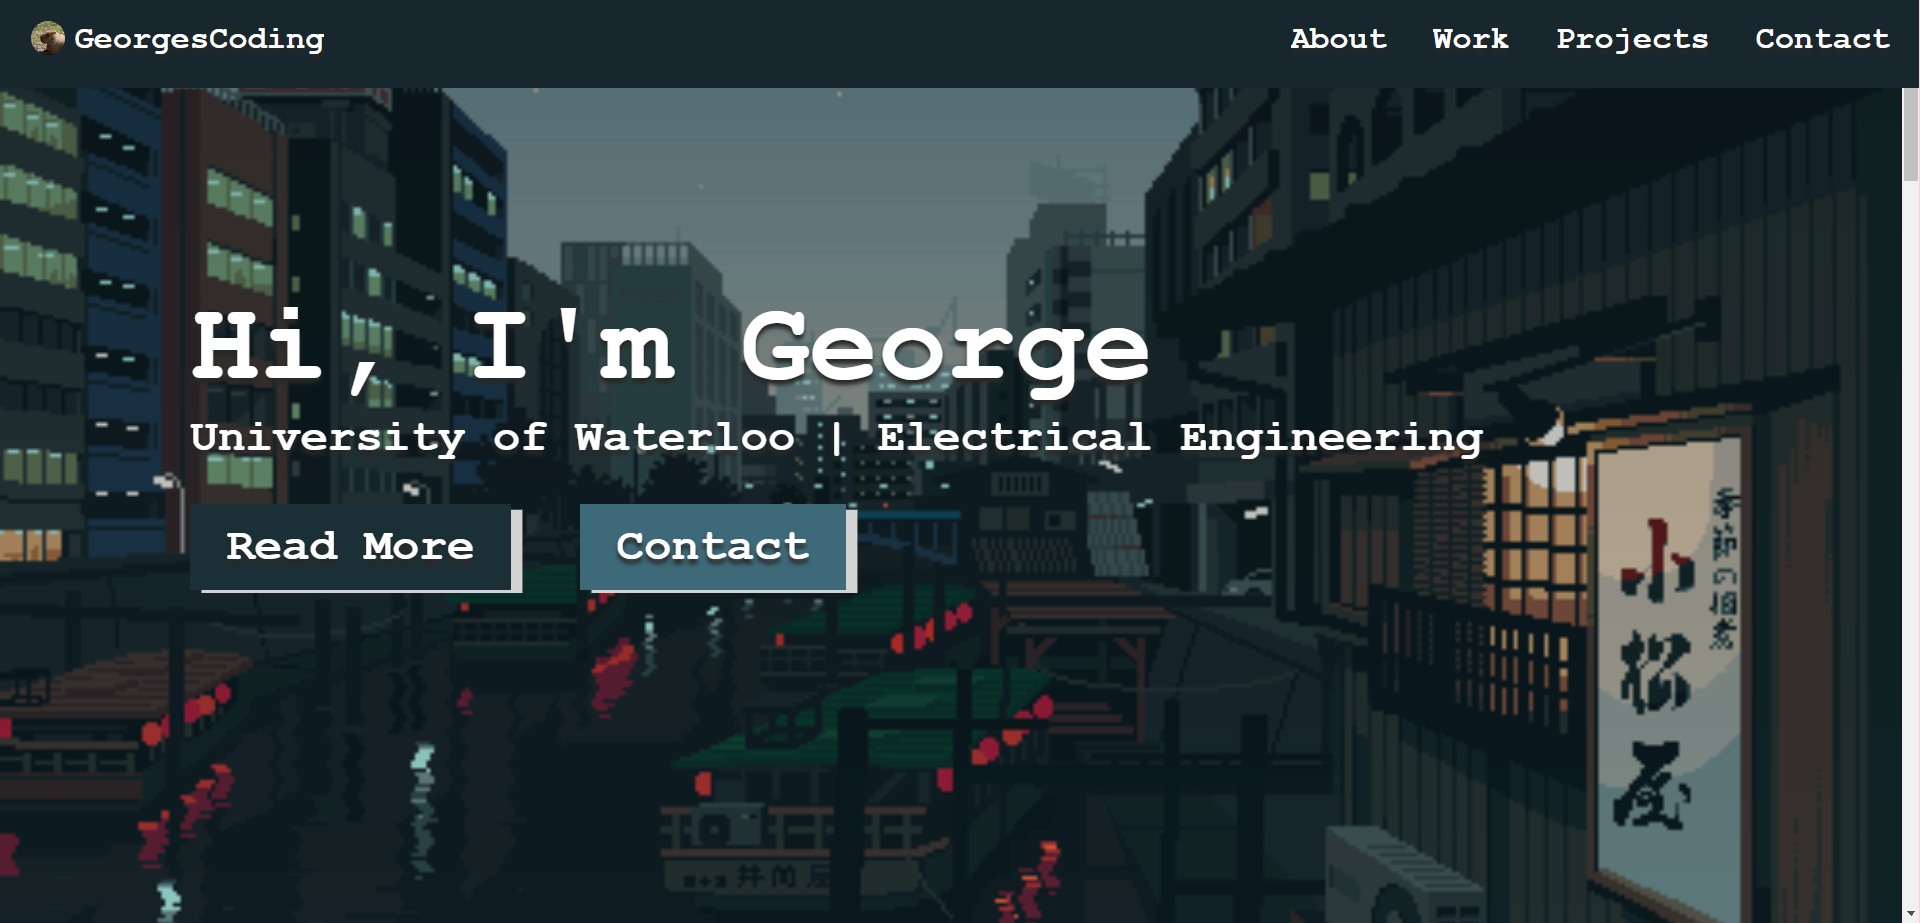
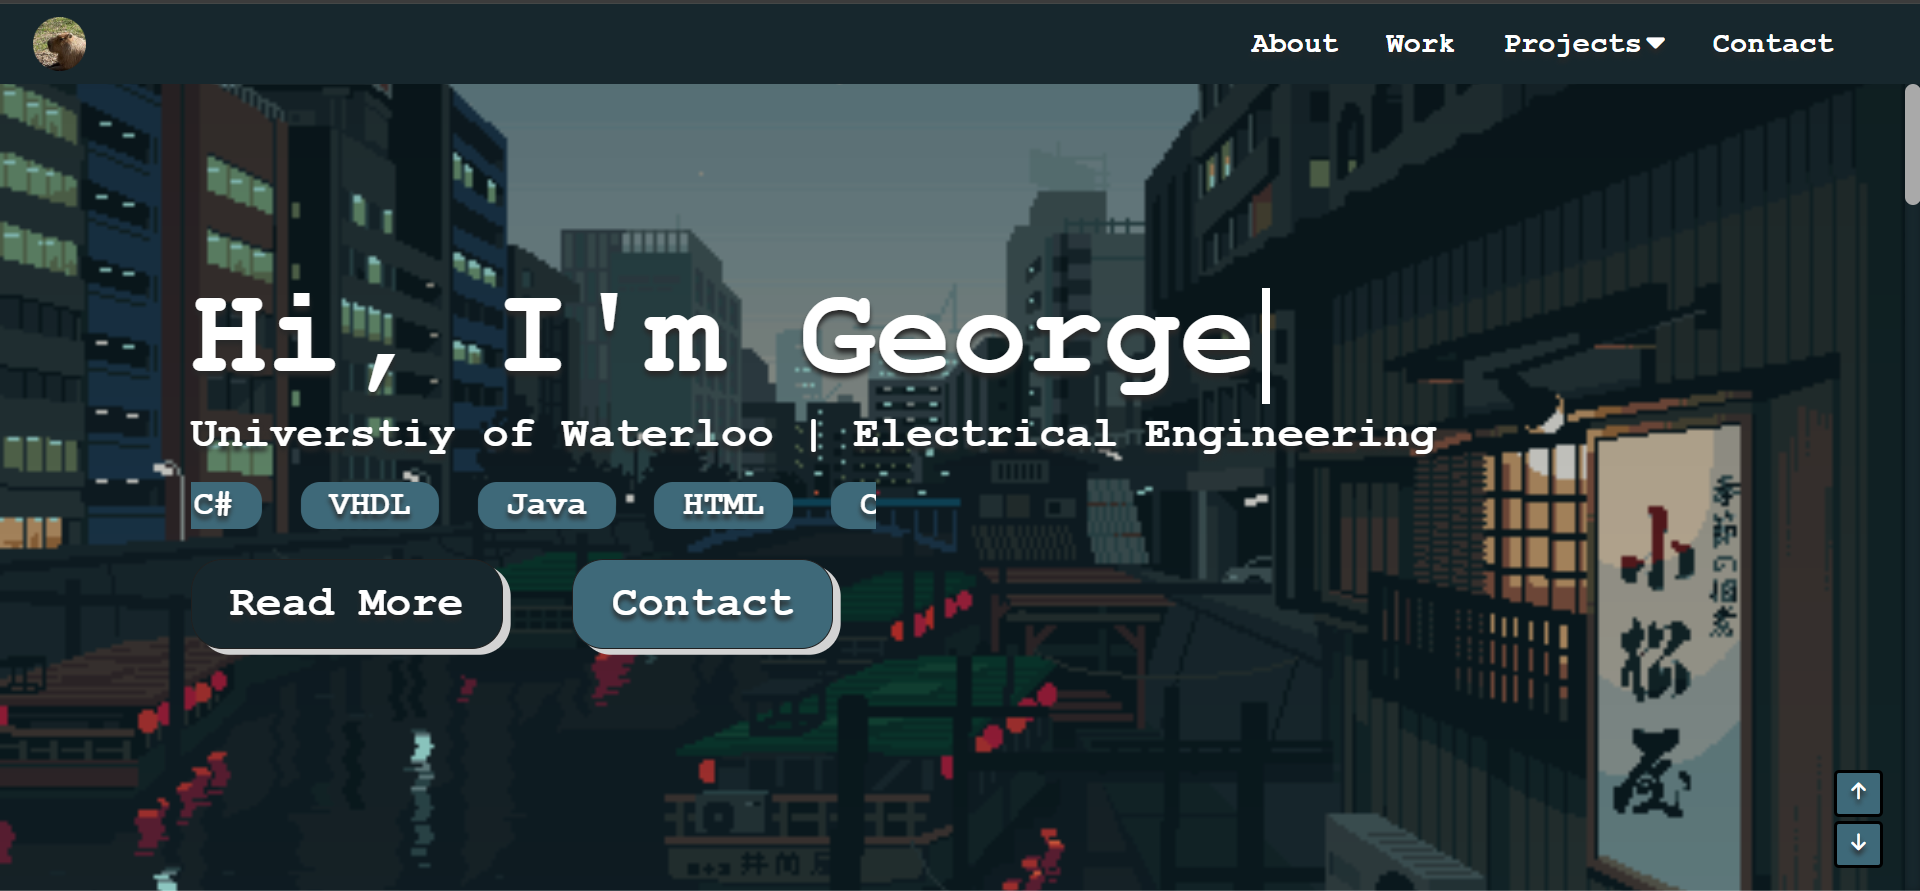
made loading main page faster
thought of making a loader, but my website is very lightweight so there isn't really any need for it. I just made loading the caret mroe dynamic so it doesn't load when adjusting the welcome page height to fit in the middle

diff --git a/src/modules/load-data.js b/src/modules/load-data.js
@@ -19,6 +19,8 @@ var currentSection;
 // loads contents of the home page, adds event listeners and rescales recaptcha 
 export function home() {
 
+    setHeight();
+
     // paste text from JSON
     document.getElementById("overviewText").innerHTML = homePage.overview;
     document.getElementById("workText").innerHTML = homePage.plangroup;
@@ -27,7 +29,6 @@ export function home() {
 
     // styles home page elements, unhides page
     styleHome();
-    document.querySelector(".page").classList.remove("hide")
 
     let resizeSocials = new ResizeObserver(() => {
         scaleSocials();
@@ -107,8 +108,7 @@ function styleHome() {
         vw = viewport.width;
 
     // changable parameters
-    let unit,
-        landscape;
+    let unit;
 
     // navbar elements
     let rightnav = document.querySelector(".right-nav"),
@@ -150,7 +150,6 @@ function styleHome() {
 
     // landscape mode
     if (vw >= vh * 1.5) {
-        landscape = true;
 
         // remove font size
         overviewText.style.fontSize = "";
@@ -172,8 +171,6 @@ function styleHome() {
 
     // portrait mode
     else {
-        landscape = false;
-
         // collapse navbar options into single menu
         rightnav.classList.add("collapsed")
         collapsedNav.classList.add("collapsed")
@@ -209,8 +206,6 @@ function styleHome() {
         workDate.forEach((date) => { date.style.fontSize = "2.5" + unit; });
         sectionName.forEach((section) => { section.style.fontSize = "4.6" + unit })
     }
-
-    setHeight(landscape);
 }
 
 
@@ -294,13 +289,16 @@ function handleIntersect(entries) {
 
 
 // make each section fit exactly the entire pages
-function setHeight(landscape) {
+function setHeight() {
+
     let navbar = document.getElementById("navbar"),
         centerVertical = document.querySelectorAll(".centerVertical"),
         sections = document.querySelectorAll(".section");
 
     let navbarHeight = navbar.getBoundingClientRect().height,
-        vh = Math.max(document.documentElement.getBoundingClientRect().height || 0, window.innerHeight || 0),
+        viewport = document.documentElement.getBoundingClientRect(),
+        vh = viewport.height - navbarHeight,
+        vw = viewport.width,
         sectionHeight = vh - navbarHeight,
         sectionHeightCSS = sectionHeight.toString() + "px",
         welcomeHeight = centerVertical[0].getBoundingClientRect().height,
@@ -308,14 +306,16 @@ function setHeight(landscape) {
         workHeight = centerVertical[2].getBoundingClientRect().height;
 
     let overview = document.getElementById("overview"),
+        typing = document.getElementById("typing"),
         styles = window.getComputedStyle(overview),
         padding = styles.getPropertyValue('padding-top').toString().replace("px", "");
 
     centerVertical.forEach((section) => section.style.top = "0px")
     centerVertical.forEach((section) => section.style.paddingTop = "")
     centerVertical[0].style.top = ((sectionHeight - welcomeHeight) / 2).toString() + "px";
+    typing.classList.add("show");
 
-    if (landscape) {
+    if (vw >= vh * 1.5) {
         centerVertical[1].style.paddingTop = ((sectionHeight - overviewHeight - padding * 3) / 2).toString() + "px";
         centerVertical[2].style.paddingTop = ((sectionHeight - workHeight - padding * 3) / 2).toString() + "px";
     }
@@ -324,7 +324,6 @@ function setHeight(landscape) {
     sections.splice(3, 2)
     sections.forEach((section) => { section.style.height = sectionHeightCSS })
 }
-
 
 function revealSection(currentSection) {
     let sections = document.querySelectorAll(".section");

diff --git a/main.js b/main.js
@@ -1,6 +1,5 @@
 // remove trailing slash from url
 window.history.pushState('', '', location.pathname.slice(0, -1));
-window.scrollTo(0, 1)
 
 ///////////////////////////////////////////////////////////////////////
 ///// dynamically load modules depending on the current directory /////
@@ -9,15 +8,13 @@ window.scrollTo(0, 1)
 // root directory
 if (window.location.pathname == "/") {
     import("./src/modules/load-data.js").then((load) => {
-        load.copyright();
         load.home();
+        load.copyright();
         load.summary(true);
         load.showNav();
         load.scrollers(1);
-        window.addEventListener("load", () => {
-            load.navbar();
-            load.observer();
-        }, false);
+        load.navbar();
+        load.observer();
         window.addEventListener("resize", () => {
             load.observer();
             load.navbar();

diff --git a/index.html b/index.html
@@ -53,12 +53,13 @@
     </h1>
 </noscript>
 
+<noscript><iframe src="https://www.googletagmanager.com/ns.html?id=GTM-T5W56PW3" height="0" width="0" style="display:none;visibility:hidden"></iframe></noscript>
+
 <body id="main">
 
-    <noscript><iframe src="https://www.googletagmanager.com/ns.html?id=GTM-T5W56PW3" height="0" width="0" style="display:none;visibility:hidden"></iframe></noscript>
+    <div class="fixed-background loading"><!-- <span id="loading"></span><p>Loading website, please be patient!</p> --></div>
 
-    <div class="fixed-background"></div>
-    <main class="page hide">
+    <main class="page">
         <button id="prevSection" title="Previous section"><i class="fa-solid fa-arrow-up"></i></button>
         <button id="nextSection" title="Next section"><i class="fa-solid fa-arrow-down"></i></button>
 

diff --git a/style.css b/style.css
@@ -23,12 +23,6 @@ html {
     position: absolute;
 }
 
-.page.hide {
-    position: relative;
-    visibility: hidden;
-}
-
-
 #logo,
 .nav-about,
 .nav-work,
@@ -356,9 +350,12 @@ cursor width is 1/2 border width */
     animation: blink 1060ms step-end infinite;
     animation-delay: 3s;
     content: " ";
-    border: 0.25vw white solid;
     font-size: 4.95vw;
     margin-left: 5px;
+}
+
+#welcomePage h1.show::after {
+    border: 0.25vw white solid;
 }
 
 #welcomePage h2 {
